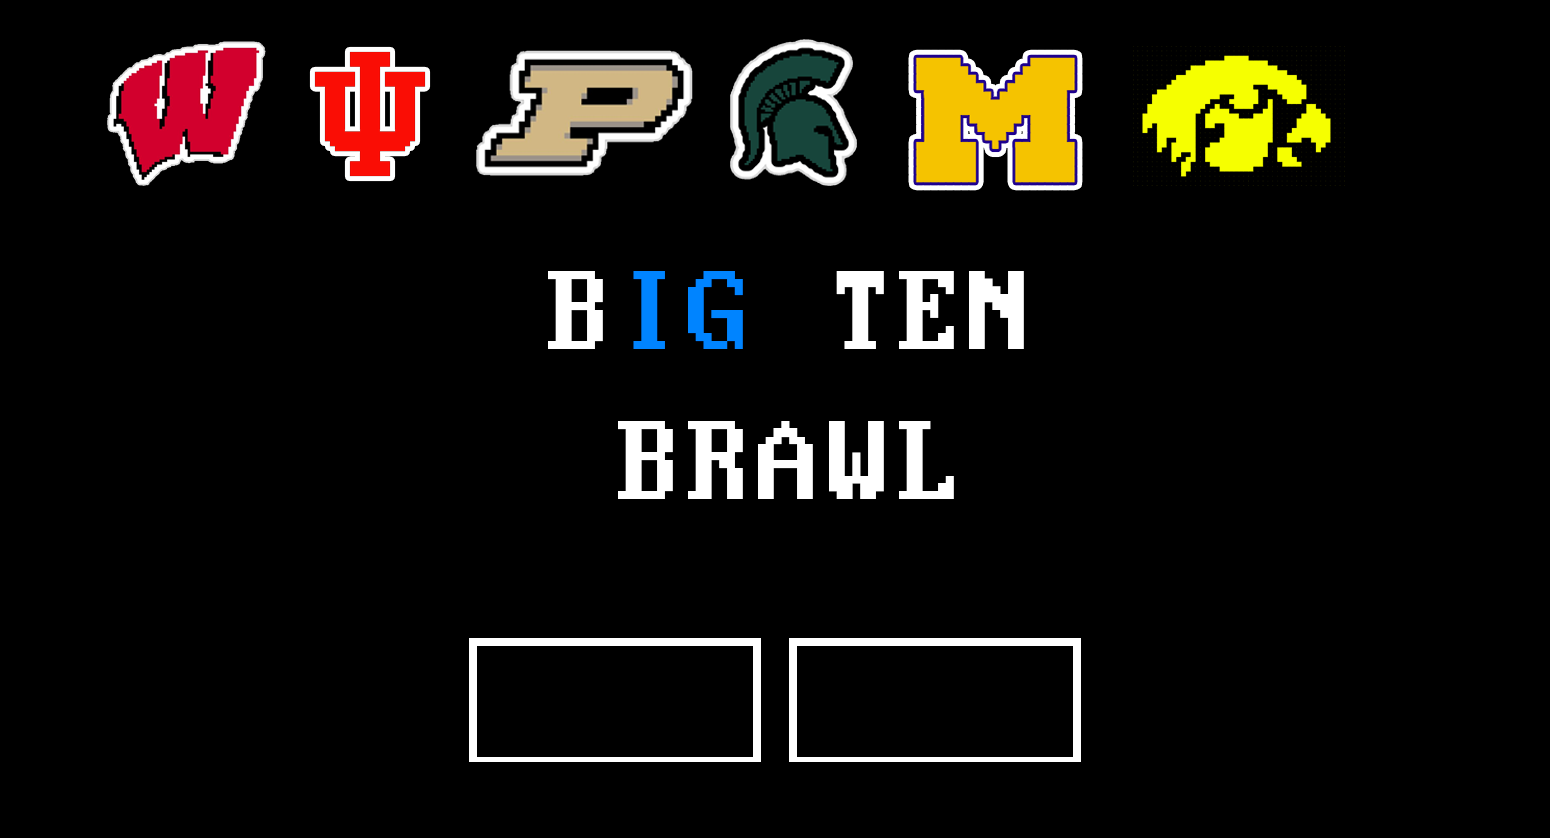
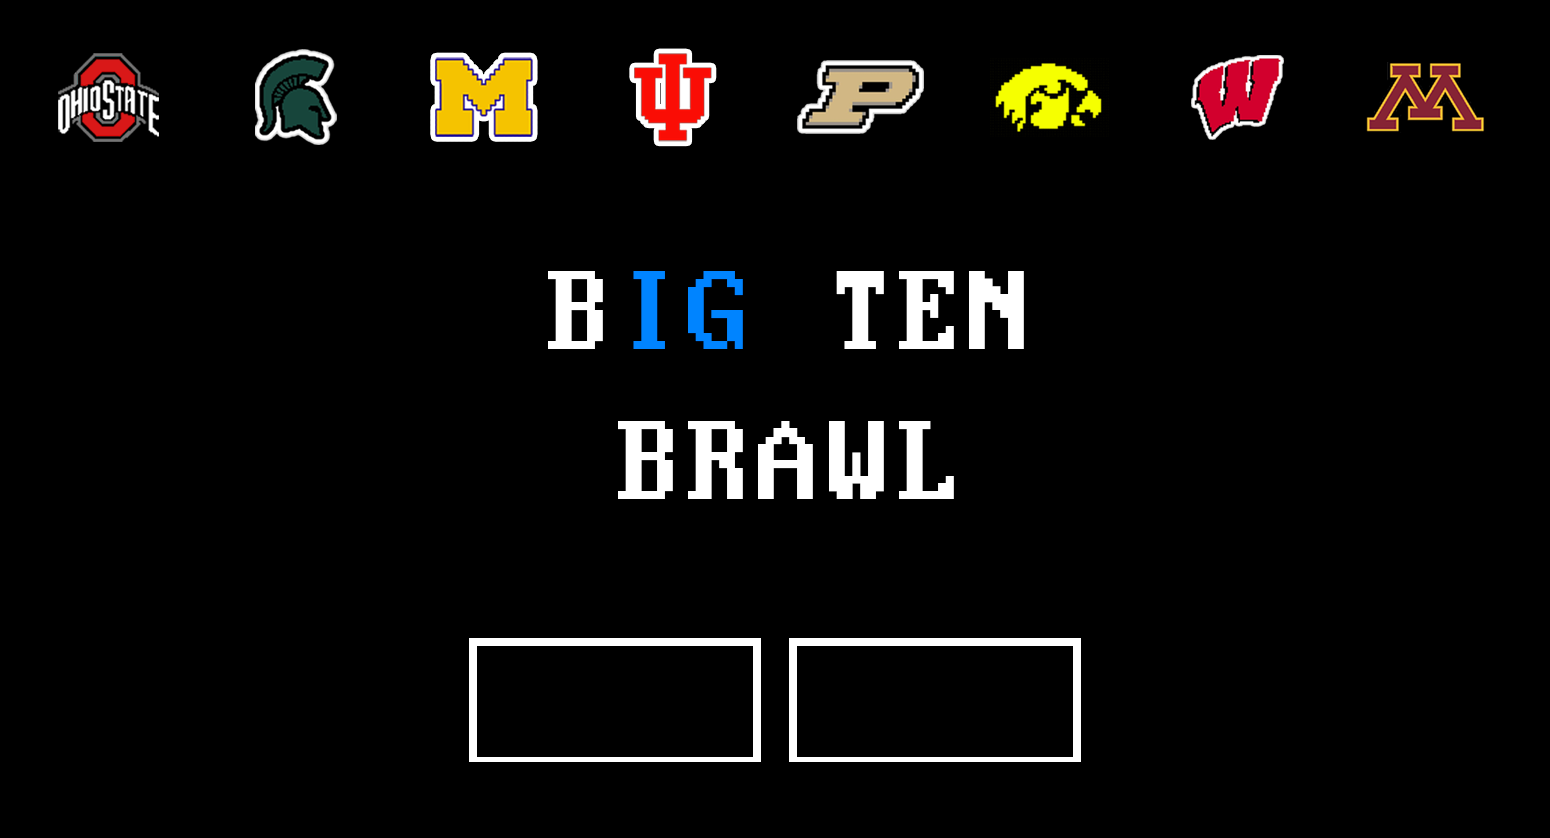
finished menu and made revisions to player

Changed region(s): [[0.031, 0.031, 0.96, 0.2482]]

diff --git a/src/Big10Brawl.java b/src/Big10Brawl.java
@@ -1,6 +1,8 @@
 import javax.imageio.ImageIO;
 import javax.swing.*;
 import java.awt.*;
+import java.awt.event.MouseEvent;
+import java.awt.event.MouseListener;
 import java.awt.image.BufferedImage;
 import java.io.*;
 
@@ -12,41 +14,19 @@ public class Big10Brawl {
 
     private JFrame welcome;
     private JFrame waiting;
+    private JComponent welComp;
+
+    private Color startColor;
+    private Color startTextColor;
+    private Color joinColor;
+    private Color joinTextColor;
 
     public Big10Brawl() {
         welcome = new JFrame();
-    }
-
-    public void initFrame() {
-        welcome.setSize(1550,838);
-        welcome.setDefaultCloseOperation(JFrame.EXIT_ON_CLOSE);
-        welcome.setTitle("Big Ten Brawl");
-        welcome.add(new JComponent() {
-            private Color startColor;
-            private Color startTextColor;
-            private Color joinColor;
-            private Color joinTextColor;
+        welComp = new JComponent() {
             private BufferedImage bg;
 
-            public void changeStartColor() {
-                if (startColor.equals(new Color(0,0,0))) {
-                    startColor = new Color(255,255,255);
-                    startTextColor = new Color(0,0,0);
-                } else {
-                    startColor = new Color(0,0,0);
-                    startTextColor = new Color(255,255,255);
-                }
-            }
 
-            public void changeJoinColor() {
-                if (joinColor.equals(new Color(0,0,0))) {
-                    joinColor = new Color(255,255,255);
-                    joinTextColor = new Color(0,0,0);
-                } else {
-                    joinColor = new Color(0,0,0);
-                    joinTextColor = new Color(255,255,255);
-                }
-            }
 
             public void paint(Graphics g) {
                 //draw background here
@@ -63,21 +43,61 @@ public class Big10Brawl {
                     startTextColor = new Color(255,255,255);
                 }
                 g.setColor(startColor);
-                g.fillRect(0,0,100,50);
+                g.fillRect(477,646,276,111);
                 if (joinColor == null) {
                     joinColor = new Color(0,0,0);
                     joinTextColor = new Color(255, 255, 255);
-
                 }
                 g.setColor(joinColor);
-                g.fillRect(0,0,100,50);
-
-
+                g.fillRect(797,646,276,111);
+                g.setFont(new Font(Font.SERIF,Font.BOLD,40));
                 g.setColor(startTextColor);
-                g.drawString("Start", 0, 0);
-
+                g.drawString("Start", 570, 710);
                 g.setColor(joinTextColor);
-                g.drawString("Join", 0, 0);
+                g.drawString("Join", 895, 710);
+
+            }
+        };
+    }
+
+    public void initFrame() {
+        welcome.setSize(1550,838);
+        welcome.setDefaultCloseOperation(JFrame.EXIT_ON_CLOSE);
+        welcome.setTitle("Big Ten Brawl");
+        welcome.add(welComp);
+        welcome.addMouseListener(new MouseListener() {
+            @Override
+            public void mouseClicked(MouseEvent e) {
+
+            }
+
+            @Override
+            public void mousePressed(MouseEvent e) {
+                if (e.getX() >= 477 && e.getX() <= 753 && e.getY() >= 646 && e.getY() <= 757) {
+                    changeStartColor();
+                } else if (e.getX() >= 797 && e.getX() <= 1073 && e.getY() >= 646 && e.getY() <= 757) {
+                    changeJoinColor();
+                }
+            }
+
+            @Override
+            public void mouseReleased(MouseEvent e) {
+                if (e.getX() >= 477 && e.getX() <= 753 && e.getY() >= 646 && e.getY() <= 757) {
+                    changeStartColor();
+                    startWaiting();
+                } else if (e.getX() >= 797 && e.getX() <= 1073 && e.getY() >= 646 && e.getY() <= 757) {
+                    changeJoinColor();
+                    join();
+                }
+            }
+
+            @Override
+            public void mouseEntered(MouseEvent e) {
+
+            }
+
+            @Override
+            public void mouseExited(MouseEvent e) {
 
             }
         });
@@ -85,11 +105,38 @@ public class Big10Brawl {
 
     }
 
+    public void changeStartColor() {
+        if (startColor.equals(new Color(0,0,0))) {
+            startColor = new Color(255,255,255);
+            startTextColor = new Color(0,0,0);
+        } else {
+            startColor = new Color(0,0,0);
+            startTextColor = new Color(255,255,255);
+        }
+        welcome.repaint();
+    }
+
+    public void changeJoinColor() {
+        if (joinColor.equals(new Color(0,0,0))) {
+            joinColor = new Color(255,255,255);
+            joinTextColor = new Color(0,0,0);
+        } else {
+            joinColor = new Color(0,0,0);
+            joinTextColor = new Color(255,255,255);
+        }
+        welcome.repaint();
+    }
+
     public void startWaiting() {
+        welcome.setVisible(false);
         waiting = new JFrame();
         waiting.setSize(1550,838);
         waiting.setDefaultCloseOperation(JFrame.EXIT_ON_CLOSE);
         waiting.setTitle("Big Ten Brawl");
-        welcome.setVisible(true);
+        waiting.setVisible(true);
+    }
+
+    public void join() {
+        String ip = JOptionPane.showInputDialog("Enter IP of other player");
     }
 }

diff --git a/src/Player.java b/src/Player.java
@@ -3,6 +3,13 @@ public class Player {
     private int charge;
     private int points;
 
+    public final static int PURDUE_PETE = 0;
+    public final static int HERKY_THE_HAWKEYE = 1;
+    public final static int BUCKY_THE_BADGER = 2;
+    public final static int HOOSIER = 3;
+    public final static int BRUTUS_THE_BUCKEYE = 4;
+    public final static int SPARTY_THE_SPARTAN = 5;
+
     public Player() {
         health = 100;
         charge = 100;
